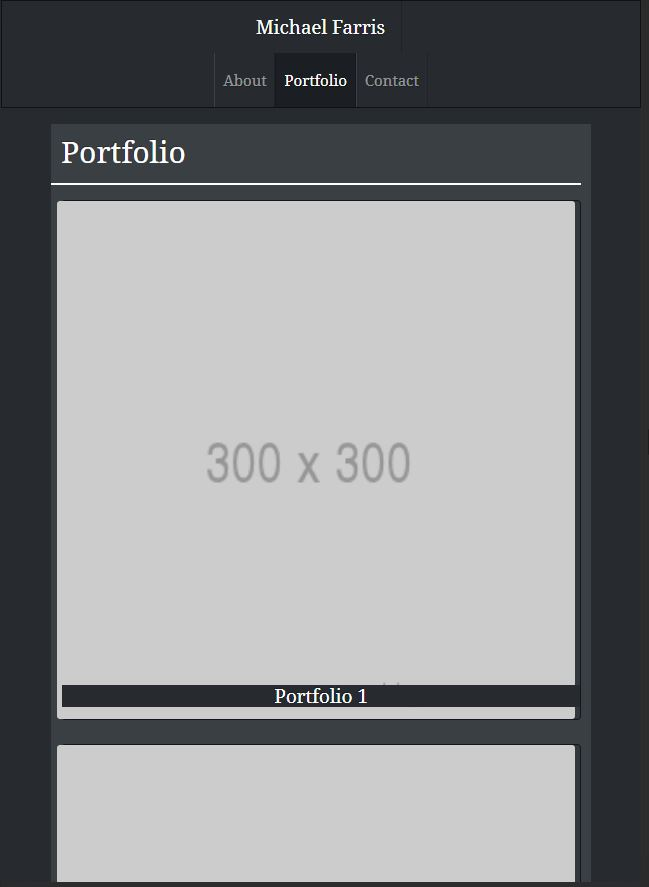
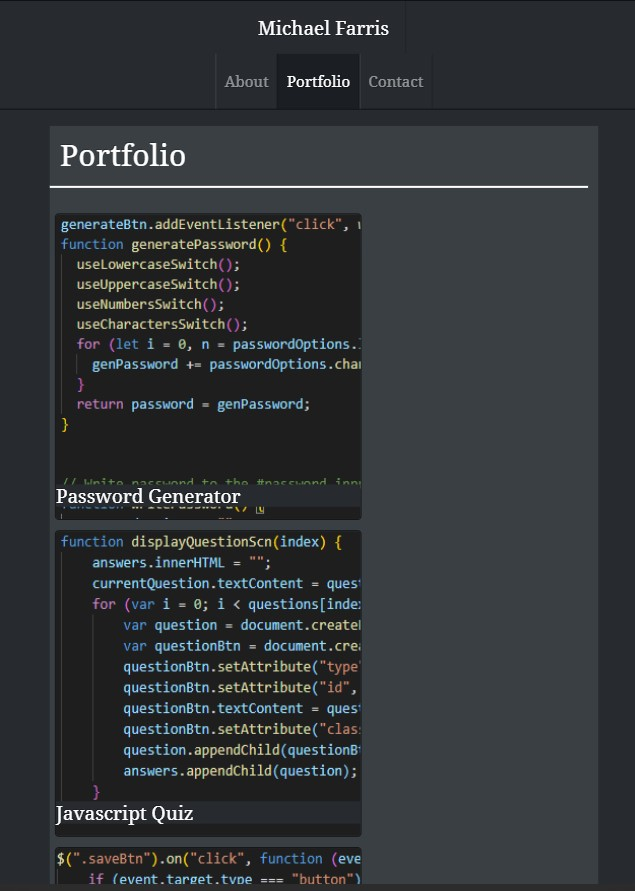
updated pictures of the profile page

diff --git a/portfolio.html b/portfolio.html
@@ -44,9 +44,9 @@
                 <div class="h-divider"></div>
             </div>
         </section>
-        <section class="row row-cols-1 row-cols-md-3  row-cols-lg-4">
-            <div class="col mb-4 text-center">
-                <a href="https://github.com/michaelf364/03-passwordgen" target="_blank">
+        <section class="row">
+            <div class="card-deck">
+                <a id="card" href="https://github.com/michaelf364/03-passwordgen" target="_blank">
                     <div class="card">
                         <img src="./Assets/Images/passgen.png" alt="" class="card-img">
                         <div class="card-img-overlay d-flex flex-column justify-content-end">
@@ -54,9 +54,7 @@
                         </div>
                     </div>
                 </a>
-            </div>
-            <div class="col mb-4 text-center">
-                <a href="https://github.com/michaelf364/04-Web-APIs" target="_blank">
+                <a id="card" href="https://github.com/michaelf364/04-Web-APIs" target="_blank">
                     <div class="card">
                         <img src="./Assets/Images/jquiz.png" alt="" class="card-img">
                         <div class="card-img-overlay d-flex flex-column justify-content-end">
@@ -64,9 +62,7 @@
                         </div>
                     </div>
                 </a>
-            </div>
-            <div class="col mb-4 text-center">
-                <a href="https://github.com/michaelf364/05-third-party-apis" target="_blank">
+                <a id="card" href="https://github.com/michaelf364/05-third-party-apis" target="_blank">
                     <div class="card">
                         <img src="./Assets/Images/wsched.png" alt="" class="card-img">
                         <div class="card-img-overlay d-flex flex-column justify-content-end">
@@ -74,9 +70,7 @@
                         </div>
                     </div>
                 </a>
-            </div>
-            <div class="col mb-4 text-center">
-                <a href="https://github.com/michaelf364/07-project-01" target="_blank">
+                <a id="card" href="https://github.com/michaelf364/07-project-01" target="_blank">
                     <div class="card">
                         <img src="./Assets/Images/quiz.png" alt="" class="card-img">
                         <div class="card-img-overlay d-flex flex-column justify-content-end">
@@ -84,9 +78,7 @@
                         </div>
                     </div>
                 </a>
-            </div>
-            <div class="col mb-4 text-center">
-                <a href="https://github.com/michaelf364/06-server-side-apis" target="_blank">
+                <a id="card" href="https://github.com/michaelf364/06-server-side-apis" target="_blank">
                     <div class="card">
                         <img src="./Assets/Images/weather.png" alt="" class="card-img">
                         <div class="card-img-overlay h-100 d-flex flex-column justify-content-end">
@@ -95,6 +87,7 @@
                     </div>
                 </a>
             </div>
+            
         </section>
     </main>
     <footer class="footer border-top bg-primary">

diff --git a/Assets/css/style.css b/Assets/css/style.css
@@ -54,10 +54,13 @@ label{
     background-color: white;
 }
 img{
-    margin-right: 10px;
     border-radius: 33%;
     height: 300px;
     width: 300px;
+}
+a#card{
+    margin-top: 10px;
+    margin-left: 10px;
 }
 .card-img-overlay{
     padding: 0px;

diff --git a/README.md b/README.md
@@ -1,110 +1,25 @@
-# Unit 08 Project 1 Homework: Professional Materials
+## Table of Contents
 
-Now that you've had some practice with APIs and have a project to share, you'll be updating your portfolio page and other materials to build toward being employer competitive.
+[Portfolio](#Portfolio)
 
-If you are opting out of career services, this is *still a required assignment*. Part of being a web developer means being a part of a community. Having a place to share your projects is *necessary* if you're applying for jobs, but is still *critical* on your journey as a developer.
+[Technology-Used](#Technology-Used)
 
+[Screenshots](#Screenshots)
 
-## Requirements
+### Portfolio
 
-* Updated portfolio featuring project 1 and two exemplary homework assignments. 
+This is a responsive website built to host my repository in the future.
 
-* Update GitHub profile with pinned repositories featuring project 1 and two exemplary assignments. 
+### Technology Used
 
-* Updated resume
+* HTML
+* CSS
+* themed bootstrap from [bootswatch](https://bootswatch.com/slate/)
+* favicon from [favicon.io](https://favicon.io/favicon-generator)
 
-* Updated LinkedIn profile
-
-
-## Grading
-
-| Requirement      | Weight |
-|---               |---     |
-| Portoflio        | 40%    |
-| GitHub Profile   | 40%    |
-| Resume           | 10%    |
-| LinkedIn Profile | 10%    |
-
-
-## Instructions
-
-1. [Updated Portfolio](#updated-portfolio)
-2. [GitHub Profile](#updated-github-profile)
-3. [Updated Resume](#updated-resume)
-4. [Updated LinkedIn](#updated-linkedin)
-
-### Updated Portfolio
-
-Your updated site should have the following content:
-
-* Your name
-
-* Links to your GitHub profile & LinkedIn page as well as your email address and phone number
-
-* A link to a PDF of your resume
-
-* A list of projects. For each project, make sure you have the following:
-
-  * Project title
-
-  * Link to the deployed version
-
-  * Link to the GitHub repository
-
-  * Screenshot of the deployed application
-
-
-#### Design
-
-Unfortunately, this is where it gets a little bit subjective. Your site should look
-"polished." Here are a few guidelines on what that means:
-
-* Mobile-first design
-
-* Choose a color palette for your site so it doesn't just look like
-the default bootstrap theme or an unstyled HTML site.
-
-* Make sure the font size is large enough to read, and that the colors don't cause eye strain.
-
-
-### Updated GitHub Profile 
-
-* If you haven't yet, now is the time to update the following in your GitHub profile: 
-
-    * Profile picture
-
-    * Bio
-
-    * Location
-
-    * Email
-
-    * Link to your portfolio
-
-* Employers (and potential collaborators) _will_ look at your GitHub profile, so put your best face forward. 
-
-* Pin some repos that you want to highlight
-
-  * Navigate to [GitHub](https://github.com/) and go to your profile.
-
-  * Click "Customize your pins"
-
-  * Click the checkboxes for your project and 2-3 homework assignments that you would like to share
-
-  * Make sure each of these projects is deployed and add a link to the deployed project in their README files
-
-* Follow your classmates. They are the beginning of your professional network and being a developer is as much about being a part of the community as it is writing code. 
-
-
-### Updated Resume 
-
-Submit a clear, concise and compelling resume, tailored to the type of job you’re looking for.
-
-
-### Updated LinkedIn Profile 
-
-Update your LinkedIn Profile with a strong bio statement, a professional photo, and links to your Github and portfolio.
-
-
-- - -
-© 2019 Trilogy Education Services, a 2U, Inc. brand. All Rights Reserved.
+### Screenshots
+|Contact|Index|Portfolio|
+|---|---|---|
+| ![640-contact](./Assets/Images/640-contact.jpg) | ![640-index](./Assets/Images/640-index.jpg) | ![640-portfolio](./Assets/Images/640-portfolio.jpg) |
+| ![768-contact](./Assets/Images/768-contact.jpg) | ![768-index](./Assets/Images/768-index.jpg)  | ![768-portfolio](./Assets/Images/768-portfolio.jpg) |
+| ![980-contact](./Assets/Images/980-contact.jpg) | ![980-index](./Assets/Images/980-index.jpg) | ![980-portfolio](./Assets/Images/980-portfolio.jpg) |
